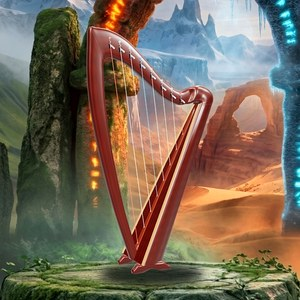
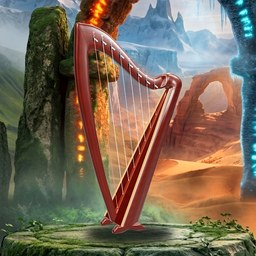
fix(og-v47): resize WhatsApp share preview image to 256x256 for compact horizontal card

diff --git a/dist/404.html b/dist/404.html
@@ -30,16 +30,16 @@
     <meta property="og:site_name" content="Earpa" />
     <meta property="og:title" content="Earpa" />
     <meta property="og:description" content="Celtic Harp Ear Training" />
-    <meta property="og:image" content="https://nachmantzuf.github.io/images/earpa_share_preview.jpg?v=v45" />
-    <meta property="og:image:secure_url" content="https://nachmantzuf.github.io/images/earpa_share_preview.jpg?v=v45" />
+    <meta property="og:image" content="https://nachmantzuf.github.io/images/earpa_share_preview.jpg?v=v47" />
+    <meta property="og:image:secure_url" content="https://nachmantzuf.github.io/images/earpa_share_preview.jpg?v=v47" />
     <meta property="og:image:type" content="image/jpeg" />
-    <meta property="og:image:width" content="300" />
-    <meta property="og:image:height" content="300" />
+    <meta property="og:image:width" content="256" />
+    <meta property="og:image:height" content="256" />
     <meta property="og:image:alt" content="Earpa Celtic Harp" />
     <meta name="twitter:card" content="summary" />
     <meta name="twitter:title" content="Earpa" />
     <meta name="twitter:description" content="Celtic Harp Ear Training" />
-    <meta name="twitter:image" content="https://nachmantzuf.github.io/images/earpa_share_preview.jpg?v=v45" />
+    <meta name="twitter:image" content="https://nachmantzuf.github.io/images/earpa_share_preview.jpg?v=v47" />
     <style id="earpa-nav-lock">
       html, body, #root {
         overscroll-behavior: none;

diff --git a/dist/index.html b/dist/index.html
@@ -30,16 +30,16 @@
     <meta property="og:site_name" content="Earpa" />
     <meta property="og:title" content="Earpa" />
     <meta property="og:description" content="Celtic Harp Ear Training" />
-    <meta property="og:image" content="https://nachmantzuf.github.io/images/earpa_share_preview.jpg?v=v45" />
-    <meta property="og:image:secure_url" content="https://nachmantzuf.github.io/images/earpa_share_preview.jpg?v=v45" />
+    <meta property="og:image" content="https://nachmantzuf.github.io/images/earpa_share_preview.jpg?v=v47" />
+    <meta property="og:image:secure_url" content="https://nachmantzuf.github.io/images/earpa_share_preview.jpg?v=v47" />
     <meta property="og:image:type" content="image/jpeg" />
-    <meta property="og:image:width" content="300" />
-    <meta property="og:image:height" content="300" />
+    <meta property="og:image:width" content="256" />
+    <meta property="og:image:height" content="256" />
     <meta property="og:image:alt" content="Earpa Celtic Harp" />
     <meta name="twitter:card" content="summary" />
     <meta name="twitter:title" content="Earpa" />
     <meta name="twitter:description" content="Celtic Harp Ear Training" />
-    <meta name="twitter:image" content="https://nachmantzuf.github.io/images/earpa_share_preview.jpg?v=v45" />
+    <meta name="twitter:image" content="https://nachmantzuf.github.io/images/earpa_share_preview.jpg?v=v47" />
     <style id="earpa-nav-lock">
       html, body, #root {
         overscroll-behavior: none;

diff --git a/dist/sw.js b/dist/sw.js
@@ -1,4 +1,4 @@
-const CACHE_NAME = 'earpa-pwa-v46';
+const CACHE_NAME = 'earpa-pwa-v47';
 const ASSETS_TO_CACHE = [
   '/',
   '/?source=pwa',

diff --git a/public/sw.js b/public/sw.js
@@ -1,4 +1,4 @@
-const CACHE_NAME = 'earpa-pwa-v46';
+const CACHE_NAME = 'earpa-pwa-v47';
 const ASSETS_TO_CACHE = [
   '/',
   '/?source=pwa',

diff --git a/sync_dist_assets.py b/sync_dist_assets.py
@@ -44,16 +44,16 @@ def main():
     <meta property="og:site_name" content="Earpa" />
     <meta property="og:title" content="Earpa" />
     <meta property="og:description" content="Celtic Harp Ear Training" />
-    <meta property="og:image" content="https://nachmantzuf.github.io/images/earpa_share_preview.jpg?v=v45" />
-    <meta property="og:image:secure_url" content="https://nachmantzuf.github.io/images/earpa_share_preview.jpg?v=v45" />
+    <meta property="og:image" content="https://nachmantzuf.github.io/images/earpa_share_preview.jpg?v=v47" />
+    <meta property="og:image:secure_url" content="https://nachmantzuf.github.io/images/earpa_share_preview.jpg?v=v47" />
     <meta property="og:image:type" content="image/jpeg" />
-    <meta property="og:image:width" content="300" />
-    <meta property="og:image:height" content="300" />
+    <meta property="og:image:width" content="256" />
+    <meta property="og:image:height" content="256" />
     <meta property="og:image:alt" content="Earpa Celtic Harp" />
     <meta name="twitter:card" content="summary" />
     <meta name="twitter:title" content="Earpa" />
     <meta name="twitter:description" content="Celtic Harp Ear Training" />
-    <meta name="twitter:image" content="https://nachmantzuf.github.io/images/earpa_share_preview.jpg?v=v45" />
+    <meta name="twitter:image" content="https://nachmantzuf.github.io/images/earpa_share_preview.jpg?v=v47" />
     <style id="earpa-nav-lock">
       html, body, #root {
         overscroll-behavior: none;
